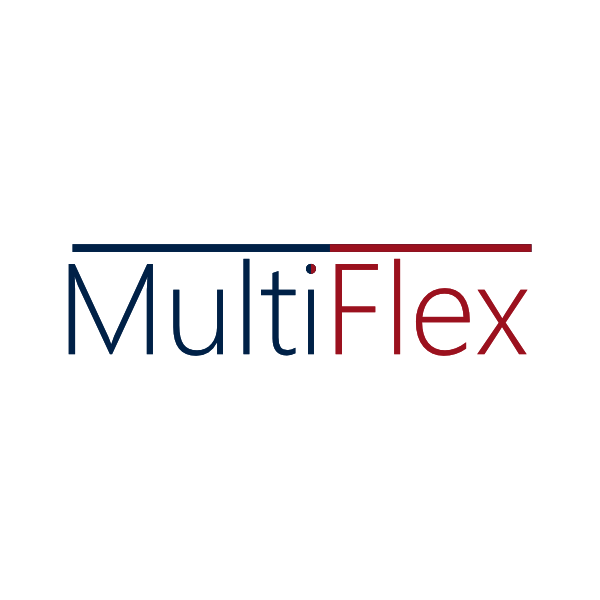
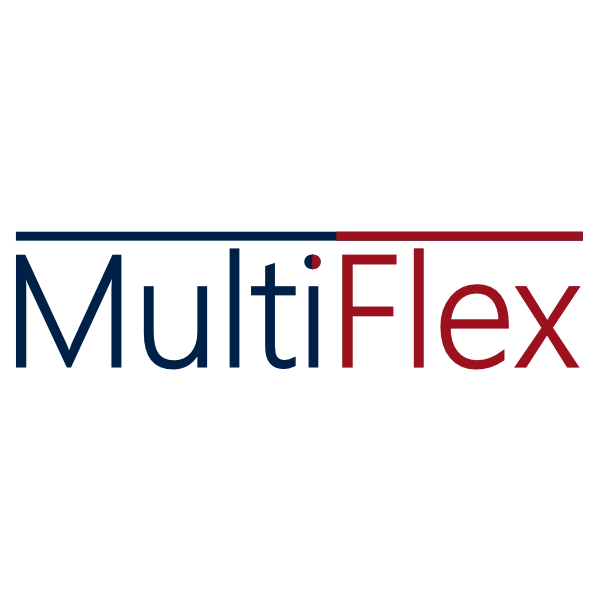
Changes

Changed region(s): [[0.0, 0.36, 0.99, 0.63]]

diff --git a/index.html b/index.html
@@ -49,7 +49,7 @@
         <button type="button" class="navbar-toggle collapsed" data-toggle="collapse" data-target="#bs-example-navbar-collapse-1"> <span class="sr-only">Toggle navigation</span> <span class="icon-bar"></span> <span class="icon-bar"></span> <span class="icon-bar"></span> </button>
         <!-- <a class="navbar-brand page-scroll" href="#page-top">Interact</a> --> 
         <div id="logo">
-          <a class="navbar-brand page-scroll" href="index.html#page-top"><img src="img/Multiflex.jpg"></a>
+          <a class="navbar-brand page-scroll" href="index.html#page-top"><img src="img/Multiflex.png"></a>
         </div>
       </div>
 

diff --git a/css/style.css b/css/style.css
@@ -987,10 +987,6 @@ li.dropdown {
 	}
 
 
-	#logo img {
-		position: relative;
-		bottom: 30px;
-	}
 	
 
 
@@ -1049,10 +1045,7 @@ li.dropdown {
 			margin: 5px 10px 0 10px;
 		}
 
-		#logo img {
-			position: relative;
-			bottom: 30px;
-		}
+	
 
 
 	}
@@ -1075,3 +1068,8 @@ li.dropdown {
 
 	}
 
+
+	#logo img {
+		position: relative;
+		bottom: 30px;
+	}
